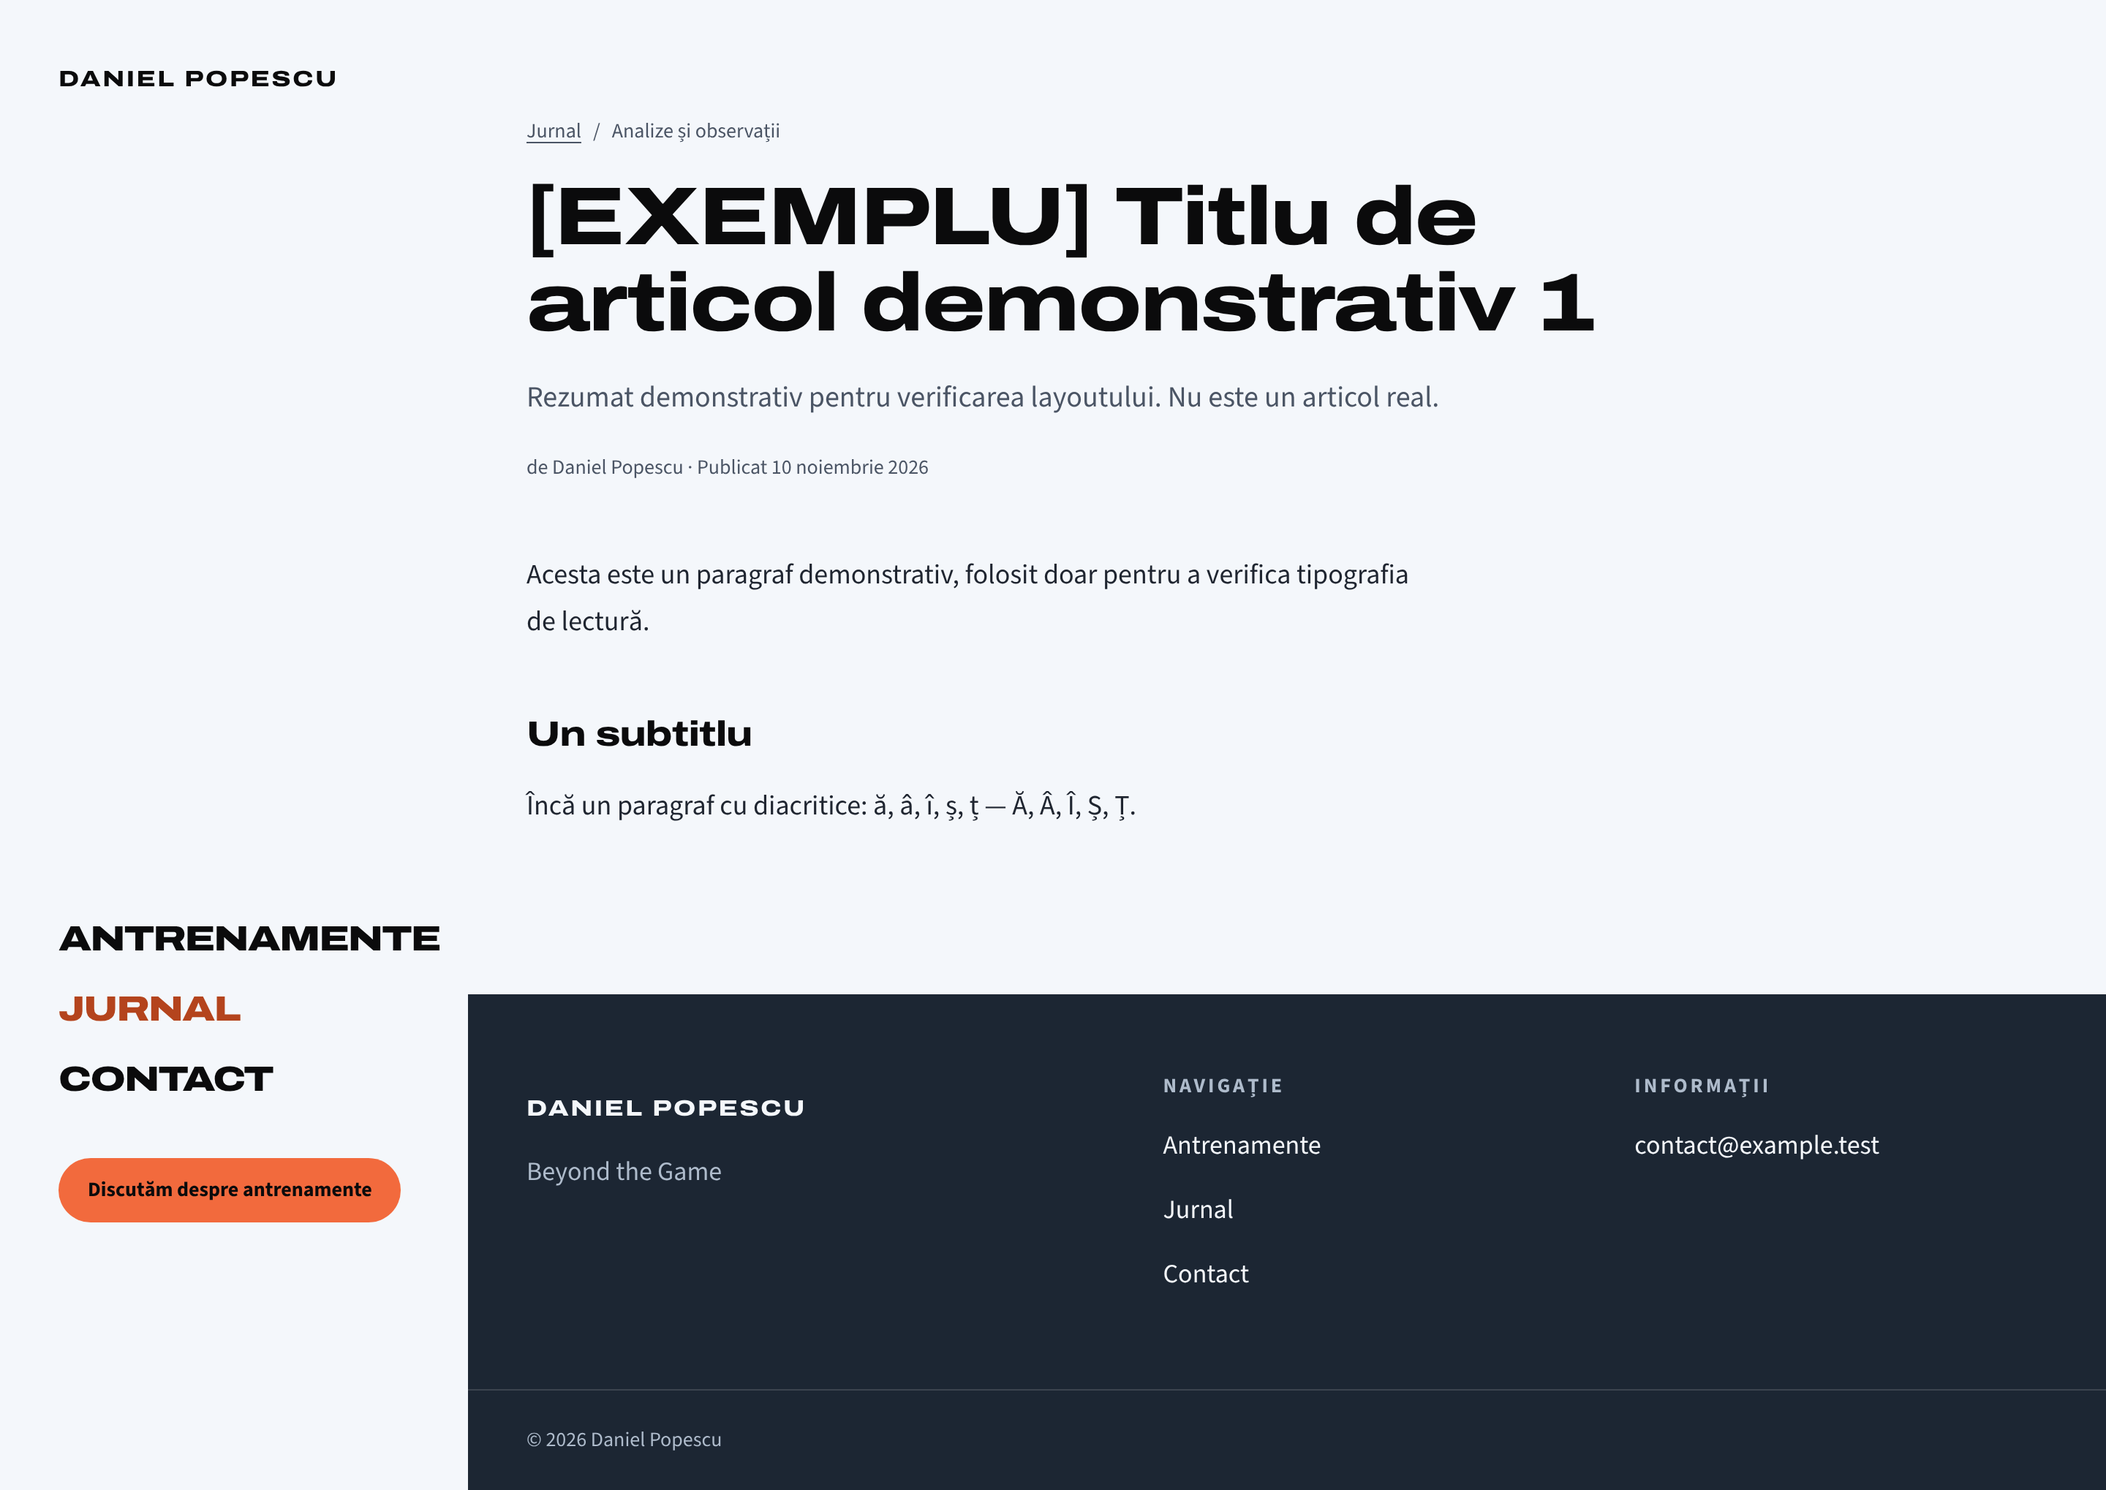
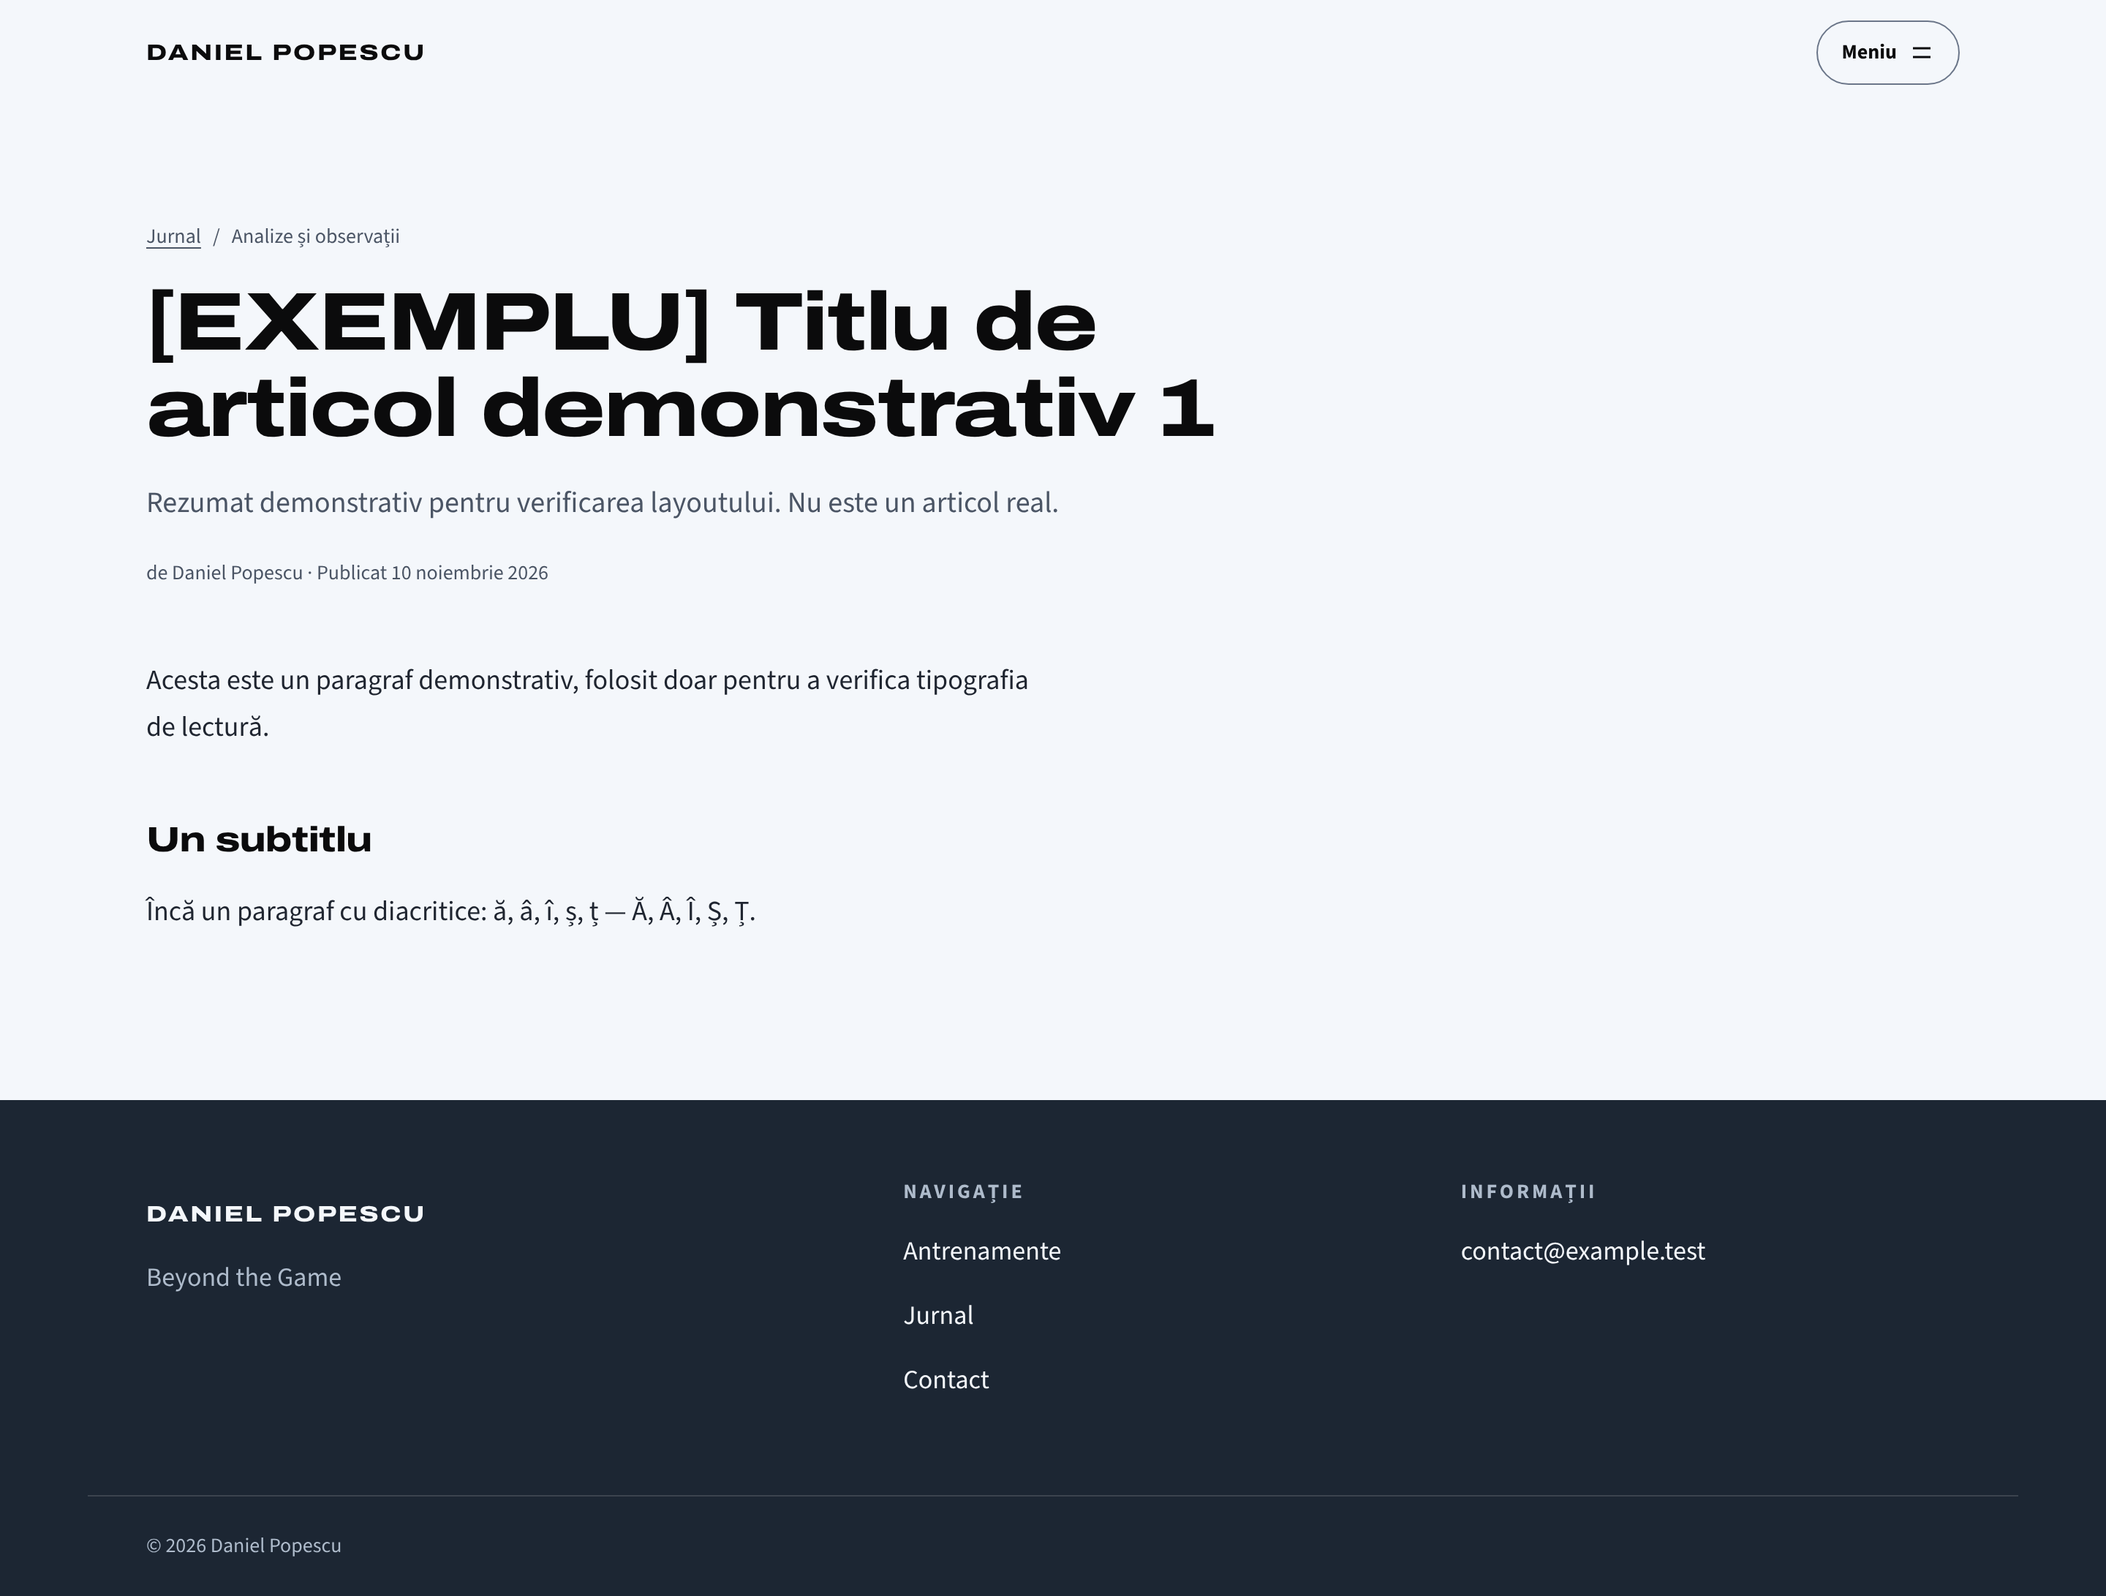
Meniu unificat: dropdown pe laptop, ecran complet pe telefon
La cererea lui Daniel, meniul de pe laptop arată ca pe telefon:
- bara laterală fixă de pe desktop a fost eliminată; bara de sus e aceeași pe toate ecranele
- MobileMenu → SiteMenu: panou pe tot ecranul sub 1024 px, dropdown de 420 px peste
- se închide cu Escape (focus restituit), clic în afară sau la navigare
- limba și rețelele sociale se mută în meniu
- hover pe linkuri: portocaliu (înainte albastru deschis, aproape invizibil)
- e2e: testul de meniu rulează pe ambele viewporturi + test pentru clic în afară

Claude-Session: https://claude.ai/code/session_017bD47BsxLtdipMTTGMnvLi

diff --git a/src/components/SiteMenu.tsx b/src/components/SiteMenu.tsx
@@ -1,0 +1,75 @@
+'use client'
+
+import Link from 'next/link'
+import { useEffect, useId, useRef, useState, type ReactNode } from 'react'
+import { NavLinks } from './NavLinks'
+
+type Item = { href: string; label: string }
+
+/**
+ * Meniul site-ului, același pe toate ecranele: buton „Meniu” în bara de sus.
+ * Telefon / tabletă: panou pe tot ecranul. Laptop (≥ 1024 px): dropdown ancorat sub buton.
+ * Se închide cu Escape (focusul revine pe buton), la clic în afară sau la navigare.
+ */
+export function SiteMenu({ items, cta, labels, extra }: { items: Item[]; cta: Item; labels: { menu: string; close: string }; extra?: ReactNode }) {
+  const [open, setOpen] = useState(false)
+  const id = useId()
+  const rootRef = useRef<HTMLDivElement>(null)
+  const buttonRef = useRef<HTMLButtonElement>(null)
+
+  useEffect(() => {
+    if (!open) return
+    const onKey = (e: KeyboardEvent) => {
+      if (e.key === 'Escape') {
+        setOpen(false)
+        buttonRef.current?.focus()
+      }
+    }
+    const onPointer = (e: PointerEvent) => {
+      if (rootRef.current && !rootRef.current.contains(e.target as Node)) setOpen(false)
+    }
+    // Blocăm derularea doar când panoul acoperă tot ecranul (sub 1024 px).
+    const fullscreen = !window.matchMedia('(min-width: 1024px)').matches
+    document.addEventListener('keydown', onKey)
+    document.addEventListener('pointerdown', onPointer)
+    if (fullscreen) document.body.style.overflow = 'hidden'
+    return () => {
+      document.removeEventListener('keydown', onKey)
+      document.removeEventListener('pointerdown', onPointer)
+      document.body.style.overflow = ''
+    }
+  }, [open])
+
+  return (
+    <div ref={rootRef} className="lg:relative">
+      <button
+        ref={buttonRef}
+        type="button"
+        aria-expanded={open}
+        aria-controls={id}
+        onClick={() => setOpen((v) => !v)}
+        className="inline-flex min-h-11 min-w-11 items-center justify-center gap-2 rounded-full border border-control px-4 text-sm font-bold transition-colors duration-200 hover:border-ink"
+      >
+        <span>{open ? labels.close : labels.menu}</span>
+        <svg width="18" height="18" viewBox="0 0 24 24" aria-hidden="true" fill="none" stroke="currentColor" strokeWidth="2">
+          {open ? <path d="M6 6l12 12M18 6L6 18" /> : <path d="M4 8h16M4 16h16" />}
+        </svg>
+      </button>
+      <div
+        id={id}
+        hidden={!open}
+        className="fixed inset-x-0 top-[var(--header-h)] bottom-0 z-40 overflow-y-auto bg-background lg:absolute lg:inset-x-auto lg:top-full lg:right-0 lg:bottom-auto lg:mt-3 lg:max-h-[calc(100dvh-var(--header-h)-24px)] lg:w-[420px] lg:rounded-lg lg:border lg:border-line lg:bg-panel lg:shadow-[0_30px_60px_-20px_rgb(28_38_51/0.35)]"
+      >
+        <nav className="container-site flex min-h-full flex-col justify-between gap-10 py-8 lg:gap-8 lg:p-8" aria-label={labels.menu}>
+          <NavLinks items={items} onNavigate={() => setOpen(false)} size="xl" />
+          <div className="flex flex-col gap-4">
+            <Link href={cta.href} onClick={() => setOpen(false)} className="btn btn-primary w-full plausible-event-name=cta_contact_click">
+              {cta.label}
+            </Link>
+            {extra}
+          </div>
+        </nav>
+      </div>
+    </div>
+  )
+}

diff --git a/src/components/SiteHeader.tsx b/src/components/SiteHeader.tsx
@@ -4,8 +4,7 @@ import type { Locale, PageKey } from '@/lib/i18n/config'
 import { getDictionary } from '@/lib/i18n/dictionaries'
 import { pagePath } from '@/lib/i18n/routes'
 import { LanguageSwitch } from './LanguageSwitch'
-import { MobileMenu } from './MobileMenu'
-import { NavLinks } from './NavLinks'
+import { SiteMenu } from './SiteMenu'
 import { SocialLinks } from './SocialLinks'
 import { Wordmark } from './Wordmark'
 
@@ -18,8 +17,8 @@ type Props = {
 }
 
 /**
- * Desktop: bară laterală fixă (wordmark sus, navigație mare jos, social).
- * Mobil: bară de sus cu wordmark și meniu pe tot ecranul.
+ * Bară de sus pe toate ecranele: wordmark + buton „Meniu”.
+ * Meniul se deschide pe tot ecranul pe telefon și ca dropdown pe laptop (SiteMenu).
  */
 export function SiteHeader({ locale, availability, other, settings }: Props) {
   const t = getDictionary(locale)
@@ -37,32 +36,22 @@ export function SiteHeader({ locale, availability, other, settings }: Props) {
   )
 
   return (
-    <>
-      {/* Mobil */}
-      {/* Fără backdrop-filter: ar transforma header-ul în containing block pentru meniul `fixed`. */}
-      <header className="sticky top-0 z-50 bg-background lg:hidden">
-        <div className="container-site flex h-[var(--header-h)] items-center justify-between gap-4">
-          {home}
-          <MobileMenu items={items} cta={cta} labels={{ menu: t.nav.menu, close: t.nav.close }} extra={switcher} />
-        </div>
-      </header>
-
-      {/* Desktop */}
-      <header className="fixed inset-y-0 left-0 z-50 hidden w-[var(--sidebar-w)] flex-col justify-between px-10 py-8 lg:flex">
-        <div className="flex flex-col items-start gap-6">{home}</div>
-        <div className="flex flex-col items-start gap-8">
-          <nav aria-label={t.nav.primary}>
-            <NavLinks items={items} />
-          </nav>
-          <Link href={cta.href} className="btn btn-primary !min-h-11 !px-5 text-sm plausible-event-name=cta_contact_click">
-            {cta.label}
-          </Link>
-          <div className="flex flex-col items-start gap-4">
-            {switcher}
-            <SocialLinks settings={settings} />
-          </div>
-        </div>
-      </header>
-    </>
+    // Fără backdrop-filter: ar transforma header-ul în containing block pentru panoul `fixed` de pe telefon.
+    <header className="sticky top-0 z-50 bg-background">
+      <div className="container-site flex h-[var(--header-h)] items-center justify-between gap-4">
+        {home}
+        <SiteMenu
+          items={items}
+          cta={cta}
+          labels={{ menu: t.nav.menu, close: t.nav.close }}
+          extra={
+            <div className="flex flex-col items-start gap-4">
+              {switcher}
+              <SocialLinks settings={settings} />
+            </div>
+          }
+        />
+      </div>
+    </header>
   )
 }

diff --git a/src/components/NavLinks.tsx b/src/components/NavLinks.tsx
@@ -3,7 +3,7 @@
 import Link from 'next/link'
 import { usePathname } from 'next/navigation'
 
-/** Navigația principală a barei laterale: linkuri mari, cu majuscule. */
+/** Navigația principală din meniu: linkuri mari, cu majuscule. */
 export function NavLinks({ items, onNavigate, size = 'lg' }: { items: { href: string; label: string }[]; onNavigate?: () => void; size?: 'lg' | 'xl' }) {
   const pathname = usePathname()
   return (
@@ -16,8 +16,8 @@ export function NavLinks({ items, onNavigate, size = 'lg' }: { items: { href: st
               href={item.href}
               onClick={onNavigate}
               aria-current={current ? 'page' : undefined}
-              className={`display inline-flex min-h-11 items-center text-ink no-underline transition-colors duration-200 hover:text-soft aria-[current=page]:text-coral-text ${
-                size === 'xl' ? 'text-[clamp(1.5rem,7.5vw,2.75rem)]' : 'text-[1.375rem] xl:text-[1.5rem]'
+              className={`display inline-flex min-h-11 items-center text-ink no-underline transition-colors duration-200 hover:text-coral-text aria-[current=page]:text-coral-text ${
+                size === 'xl' ? 'text-[clamp(1.5rem,7.5vw,2.75rem)] lg:text-[2rem]' : 'text-[1.375rem] xl:text-[1.5rem]'
               }`}
             >
               {item.label}

diff --git a/tests/e2e/site.spec.ts b/tests/e2e/site.spec.ts
@@ -45,8 +45,7 @@ test.describe('site public', () => {
   })
 })
 
-test.describe('meniu mobil', () => {
-  test.skip(({ isMobile }) => !isMobile, 'doar pe mobil')
+test.describe('meniu (telefon: ecran complet, laptop: dropdown)', () => {
   test('se deschide, se închide cu Escape și redă focusul', async ({ page }) => {
     await page.goto('/ro')
     const button = page.getByRole('button', { name: 'Meniu' })
@@ -57,6 +56,14 @@ test.describe('meniu mobil', () => {
     await page.keyboard.press('Escape')
     await expect(page.getByRole('navigation', { name: 'Meniu' })).toBeHidden()
     await expect(button).toBeFocused()
+  })
+  test('se închide la clic în afara meniului', async ({ page }) => {
+    await page.goto('/ro')
+    await page.getByRole('button', { name: 'Meniu' }).click()
+    const nav = page.getByRole('navigation', { name: 'Meniu' })
+    await expect(nav).toBeVisible()
+    await page.mouse.click(5, 5)
+    await expect(nav).toBeHidden()
   })
 })
 

diff --git a/src/styles/globals.css b/src/styles/globals.css
@@ -31,7 +31,6 @@
   --container-max: 1240px;
   --gutter: 20px;
   --section-space: 64px;
-  --sidebar-w: 0px;
   --ease: cubic-bezier(0.2, 0, 0, 1);
 }
 
@@ -55,7 +54,6 @@
   :root {
     --gutter: 40px;
     --section-space: 112px;
-    --sidebar-w: 320px;
   }
 }
 
@@ -128,10 +126,6 @@
 }
 
 @layer components {
-  /* Conținutul stă la dreapta barei laterale pe desktop. */
-  .content-shell {
-    padding-left: var(--sidebar-w);
-  }
   .container-site {
     width: 100%;
     max-width: calc(var(--container-max) + 2 * var(--gutter));

diff --git a/src/components/SiteLayout.tsx b/src/components/SiteLayout.tsx
@@ -37,7 +37,7 @@ export async function SiteLayout({ locale, children }: { locale: Locale; childre
         </a>
         <AlternateProvider>
           <SiteHeader locale={navLocale} availability={navAvailability} other={other} settings={settings} />
-          <div className="content-shell flex flex-1 flex-col">
+          <div className="flex flex-1 flex-col">
             <main id="continut" className="flex-1" tabIndex={-1}>
               {children}
             </main>

diff --git a/docs/DESIGN_SYSTEM.md b/docs/DESIGN_SYSTEM.md
@@ -2,7 +2,7 @@
 
 **Direcția v5** (decizii [0007](decisions/0007-dark-editorial-sport.md) + [0008](decisions/0008-light-3d-hero.md) + [0009](decisions/0009-sunset-court-palette.md), 10.11.2026):
 editorial-sportiv pe fundal albicios, cu hero 3D din straturi; paleta „apus pe teren” (portocaliu, ardezie, albastru prăfuit) după imaginea de referință trimisă de Daniel. Structura pornește de la capturile patrickmouratoglou.com
-trimise de Daniel (bară laterală, titluri late cu majuscule, carduri, butoane pastilă); am preluat principii, nu identitate —
+trimise de Daniel (titluri late cu majuscule, carduri, butoane pastilă); am preluat principii, nu identitate —
 fără texte, logo, fotografii sau wordmark-ul în două greutăți al referinței. **Propunere — așteaptă validarea lui Daniel** (issue #1).
 
 Capturi (conținut local de seed marcat `[EXEMPLU]`): `docs/design/homepage-desktop.png`, `docs/design/homepage-mobile.png`,
@@ -41,10 +41,11 @@ plutire de 14 s (oprită la `prefers-reduced-motion`). Fără WebGL, fără Java
   `.h-card`. Text 17/18 px; articole 18/19 px, line-height 1.7, culoare `#1F2530`, coloană 68ch.
 
 ## Layout
-- Desktop (≥ 1024 px): bară laterală fixă de 320 px, pe fundalul albicios — wordmark sus; navigație mare cu majuscule, CTA, limbă și social jos.
-  Conținutul (`.content-shell`) stă la dreapta, container max 1240 px.
-- Mobil: bară de sus (wordmark + „Meniu” pastilă), meniu pe tot ecranul cu linkuri mari și CTA.
-  Fără `backdrop-filter` pe header: ar limita meniul `fixed` la înălțimea barei (bug găsit și testat în e2e).
+- Toate ecranele: bară de sus lipicioasă (wordmark + buton pastilă „Meniu”), container max 1240 px (cerut de Daniel: meniul de pe
+  laptop la fel ca pe telefon). `src/components/SiteMenu.tsx`.
+- Telefon / tabletă (< 1024 px): meniul se deschide pe tot ecranul, cu linkuri mari, CTA, limbă și social; derularea paginii e blocată.
+- Laptop (≥ 1024 px): același meniu, ca dropdown (card alb de 420 px ancorat sub buton); se închide cu Escape, clic în afară sau la navigare.
+  Fără `backdrop-filter` pe header: ar limita panoul `fixed` de pe telefon la înălțimea barei (bug găsit și testat în e2e).
 - Spațiere secțiuni 64 px mobil / 112 px desktop; secțiunile sunt separate de linii subțiri.
 - Colțuri: 24 px carduri mari și hero, 14 px imagini, 6 px carduri navy compacte; pastile pentru butoane și inputuri.
 - Zone tactile ≥ 44 × 44 px; butoane și inputuri 48–52 px.
@@ -65,7 +66,7 @@ parteneriate reale și drept de folosire a mărcilor.
 - `next/image` cu AVIF/WebP, `sizes` explicite, `priority` doar pentru imaginea hero.
 
 ## Interacțiune
-Tranziții CSS 150–250 ms; hover și focus vizibile; meniu mobil accesibil (Escape, focus restituit); `prefers-reduced-motion` respectat;
+Tranziții CSS 150–250 ms; hover și focus vizibile; meniu accesibil pe toate ecranele (Escape, clic în afară, focus restituit); `prefers-reduced-motion` respectat;
 fără carusel cu JavaScript, fără scroll controlat, fără video automat.
 
 ## Identitate

diff --git a/docs/PROJECT_STATE.md b/docs/PROJECT_STATE.md
@@ -5,7 +5,7 @@
 **Modificări locale necomise:** niciuna după commitul acestui fișier.
 
 ## Finalizat (cu dovezi)
-Verificările de mai jos au rulat **local** pe `11052f8` și din nou pe design v5 (lint, typecheck, contrast, unit 14/14, int 14/14, build, e2e 16 trecute + 2 omise intenționat) (Ubuntu 24.04, Node 22.23.4, PostgreSQL 16.15). CI pe GitHub: încă nerulat.
+Verificările de mai jos au rulat **local** pe `11052f8` și din nou pe design v5 (lint, typecheck, contrast, unit 14/14, int 14/14, build, e2e 16 trecute + 2 omise intenționat; după meniul unificat: e2e 19 trecute + 1 omis intenționat) (Ubuntu 24.04, Node 22.23.4, PostgreSQL 16.15). CI pe GitHub: verde pe `a905303` (paleta v5).
 
 - [x] Fundație tehnică: Next.js 16.3.8 + Payload 3.92.0 + PostgreSQL; migrația inițială rulează pe o bază curată (`pnpm migrate`).
 - [x] Pagini RO: homepage (6 secțiuni, afișate doar cu conținut real), despre, antrenamente, jurnal, articol, contact, confidențialitate.
